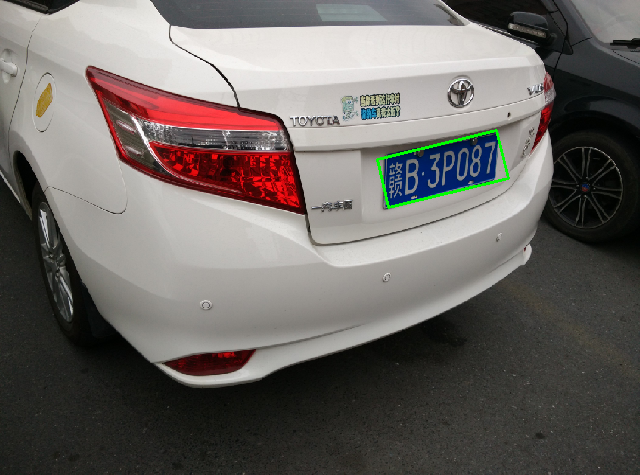
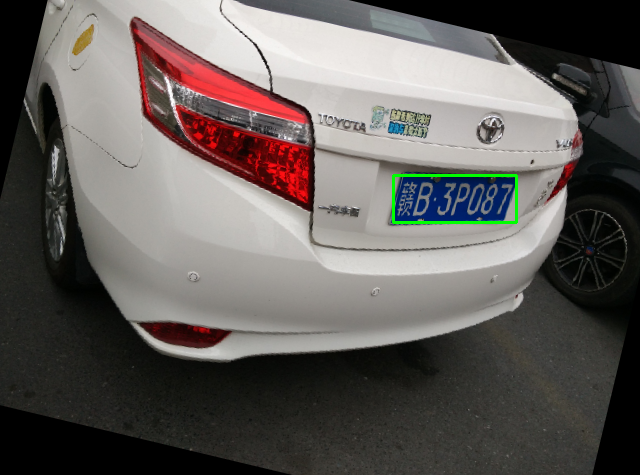
second update

diff --git a/TransLicense.py b/TransLicense.py
@@ -1,57 +1,82 @@
 import cv2
 import numpy as np
-from Projects.LicensePlate.processingImg import preprocess,BlueHsvImg
-#
-angle_flag = False
+from Projects.LicensePlate.processingImg import preprocess,BlueHsvImg,findPlateNumberRegion,detect
 
+imggg = cv2.imread("license4.png")
+# imggg = cv2.imread("timg.jpg")
+angle, angle_flag = detect(imggg)
 
-def find_angle(img, col, row):
-    left = col * 0.25
-    mid = col * 0.5
-    right = col * 0.75
-    a = b = 0
-    while img[a][int(left)] == 255:
-        a += 1
-    while img[b][int(right)] == 255:
-        b += 1
-    if a-b < 0:
-        angle_flag = True
+if angle < 0 and angle > -75:
+    row, col = imggg.shape[:2]
+    if angle_flag:
+        M = cv2.getRotationMatrix2D((col // 2, row // 2), angle, 1)
     else:
-        angle_flag = False
-    theta = np.arctan(abs(a-b)/(right - left))
-    print(theta)
-    angle = theta * 360 // np.pi
-    return int(angle)
+        M = cv2.getRotationMatrix2D((col // 2, row // 2), -angle, 1)
+
+    dst = cv2.warpAffine(imggg, M, (col, row))
+    angle, angle_flag = detect(dst)
+
+# def isRotated(binary):
+# #     往左上旋转为True
+#     row,col = binary.shape
+#
+#     return True
+
+# def find_angle(img, col, row):
+#     global angle_flag
+#     left = col * 0.25
+#     mid = col * 0.5
+#     right = col * 0.75
+#     a = b = 0
+#     while img[a][int(left)] == 255:
+#         a += 1
+#     while img[b][int(right)] == 255:
+#         b += 1
+#     if a-b < 0:
+#         angle_flag = True
+#     else:
+#         angle_flag = False
+#     theta = np.arctan(abs(a-b)/(right - left))
+#     print(theta)
+#     angle = theta * 360 // np.pi
+#     return int(angle)
 
 
-img = cv2.imread("number_plate1.jpg")
-testImg = img.copy()
-
-
-gray = cv2.cvtColor(testImg,cv2.COLOR_BGR2GRAY)
-ret, binary = cv2.threshold(gray,50,255,cv2.THRESH_BINARY)
-cv2.imshow('binary', binary)
-
-row,col = binary.shape
-
-angle = find_angle(binary, col, row)
-if angle_flag:
-    M = cv2.getRotationMatrix2D((col // 2, row // 2), angle / 2, 1)
-else:
-    M = cv2.getRotationMatrix2D((col // 2, row // 2), -angle / 2, 1)
-
-bigger = cv2.copyMakeBorder(img, row//4,row//4,col//4,col//4,cv2.BORDER_CONSTANT,value=(0,0,0))
-brow,bcol = bigger.shape[:2]
-
-dst = cv2.warpAffine(bigger, M, (bcol, brow))
+# imggg = cv2.imread("license4.png")
+# angle = detect(imggg)
+# img = cv2.imread("number_plate1.jpg")
+# testImg = img.copy()
+#
+#
+# gray = cv2.cvtColor(testImg,cv2.COLOR_BGR2GRAY)
+# ret, binary = cv2.threshold(gray,50,255,cv2.THRESH_BINARY)
+# cv2.imshow('binary', binary)
+#
+# row,col = binary.shape
+# angle_flag = isRotated(binary)
+#
+# if angle_flag:
+#     M = cv2.getRotationMatrix2D((col // 2, row // 2), angle, 1)
+# else:
+#     M = cv2.getRotationMatrix2D((col // 2, row // 2), -angle, 1)
+# #
+# bigger = cv2.copyMakeBorder(img, row//4,row//4,col//4,col//4,cv2.BORDER_CONSTANT,value=(0,0,0))
+# brow,bcol = bigger.shape[:2]
+# #
+# dst = cv2.warpAffine(bigger, M, (bcol, brow))
 # dst_gray = cv2.cvtColor(dst,cv2.COLOR_BGR2GRAY)
 # rett, binaryy = cv2.threshold(dst_gray, 50, 255, cv2.THRESH_BINARY)
-
-cv2.imshow('dst', dst)
-cv2.imshow('bigger', bigger)
-dst_gray = cv2.cvtColor(dst, cv2.COLOR_BGR2GRAY)
-di = preprocess(dst_gray)
-hsb = BlueHsvImg(dst)
-cv2.imshow('ddddd', di)
+#
+# cv2.imshow('dst', dst)
+# cv2.imshow('bigger', bigger)
+# dst_gray = cv2.cvtColor(dst, cv2.COLOR_BGR2GRAY)
+#
+# dilation = preprocess(dst_gray)
+# hsvBinary = BlueHsvImg(dst)
+#
+# cv2.imshow('ddddd', dilation)
+# getCombImg = cv2.bitwise_and(dilation, hsvBinary)
+# cv2.imshow('combbb', getCombImg)
+#
 
 cv2.waitKey(0)

diff --git a/TestPlate.py b/TestPlate.py
@@ -1,46 +1,53 @@
 import cv2
 import numpy as np
-#
-angle_flag = False
+from Projects.LicensePlate.processingImg import preprocess,BlueHsvImg,findPlateNumberRegion,detect
 
-def find_angle(img, col, row):
-    left = col * 0.25
-    mid = col * 0.5
-    right = col * 0.75
-    a = b = 0
-    while img[a][int(left)] == 255:
-        a += 1
-    while img[b][int(right)] == 255:
-        b += 1
-    if a-b < 0:
-        angle_flag = True
-    else:
-        angle_flag = False
-    theta = np.arctan(abs(a-b)/(right - left))
-    print(theta)
-    angle = theta * 360 // np.pi
-    return int(angle)
+
+# angle_flag = False
 #
-#
-img = cv2.imread("number_plate1.jpg")
+# def find_angle(img, col, row):
+#     left = col * 0.25
+#     mid = col * 0.5
+#     right = col * 0.75
+#     a = b = 0
+#     while img[a][int(left)] == 255:
+#         a += 1
+#     while img[b][int(right)] == 255:
+#         b += 1
+#     if a-b < 0:
+#         angle_flag = True
+#     else:
+#         angle_flag = False
+#     theta = np.arctan(abs(a-b)/(right - left))
+#     print(theta)
+#     angle = theta * 360 // np.pi
+#     return int(angle)
+# #
+# #
+img = cv2.imread("license4.png")
 testImg = img.copy()
 gray = cv2.cvtColor(testImg,cv2.COLOR_BGR2GRAY)
 ret, binary = cv2.threshold(gray,50,255,cv2.THRESH_BINARY)
-cv2.imshow('binary', binary)
-
+# cv2.imshow('binary', binary)
+#
 row,col = binary.shape
+#
+# angle = find_angle(binary, col, row)
+# if angle_flag:
+#     M = cv2.getRotationMatrix2D((col // 2, row // 2), angle / 2, 1)
+# else:
+#     M = cv2.getRotationMatrix2D((col // 2, row // 2), -angle / 2, 1)
+#
+# dst = cv2.warpAffine(img, M, (col, row))
+# dst_gray = cv2.cvtColor(dst,cv2.COLOR_BGR2GRAY)
+# rett, binaryy = cv2.threshold(dst_gray, 50, 255, cv2.THRESH_BINARY)
+# cv2.imshow('dst', dst)
+# cv2.imshow('img', binaryy)
 
-angle = find_angle(binary, col, row)
-if angle_flag:
-    M = cv2.getRotationMatrix2D((col // 2, row // 2), angle / 2, 1)
-else:
-    M = cv2.getRotationMatrix2D((col // 2, row // 2), -angle / 2, 1)
-
+M = cv2.getRotationMatrix2D((col // 2, row // 2), -13, 1)
 dst = cv2.warpAffine(img, M, (col, row))
-dst_gray = cv2.cvtColor(dst,cv2.COLOR_BGR2GRAY)
-rett, binaryy = cv2.threshold(dst_gray, 50, 255, cv2.THRESH_BINARY)
-cv2.imshow('dst', dst)
-cv2.imshow('img', binaryy)
+cv2.imshow('aaddddd', dst)
+ange = detect(dst)
 #
 # dst_gray = cv2.cvtColor(dst, cv2.COLOR_BGR2GRAY)
 # # ret, dst_binary = cv2.threshold(dst_gray,50,255,cv2.THRESH_BINARY)

diff --git a/processingImg.py b/processingImg.py
@@ -104,11 +104,11 @@ def findPlateNumberRegion(img):
         width = abs(box[0][0] - box[2][0])
         # 车牌正常情况下长高比在2.7-5之间
         ratio = float(width) / float(height)
-        print('ratio: ', ratio)
+        # print('ratio: ', ratio)
         if (ratio > 5.0 or ratio < 1.4):
             continue
         region.append(box)
-    print('region: ', region.__len__())
+    # print('region: ', region.__len__())
     return region
 
 
@@ -132,28 +132,39 @@ def detect(img):
     region = findPlateNumberRegion(getCombImg)
 
     # 用绿线画出这些找到的轮廓
+    print('this is region', region)
     for box in region:
         """
         you should convert your contour to numpy array first
         contours is a Python list of all the contours in the image. Each individual contour is a Numpy array of (x,y) coordinates of boundary points of the object.
         """
-        print(box)
+        # print('box', box)
         ctr = np.array(box).reshape((-1, 1, 2)).astype(np.int32)
-        print("asdas", [ctr])
+        # print("asdas", [ctr])
         cv2.drawContours(newImg, [ctr], 0, (0, 255, 0), 2)
+        rectt = cv2.minAreaRect(box)
+        angle = rectt[2]
+        # 矩形倾斜方向判断，往左上为True
+        flag = box[0][1] - box[3][1]
+        if flag >= 0:
+            angle_flag = True
+        else:
+            angle_flag = False
+        # cv2.boxPoints(rectt)
+        # print('----this is minrect: ', cv2.minAreaRect(box))
     cv2.imshow('testt', newImg)
     ys = [box[0, 1], box[1, 1], box[2, 1], box[3, 1]]
     xs = [box[0, 0], box[1, 0], box[2, 0], box[3, 0]]
     # argsort函数返回的是数组值从小到大的索引值
     ys_sorted_index = np.argsort(ys)
     xs_sorted_index = np.argsort(xs)
-
+    print('--------',xs_sorted_index, ys_sorted_index)
     x1 = box[xs_sorted_index[0], 0]
     x2 = box[xs_sorted_index[3], 0]
 
     y1 = box[ys_sorted_index[0], 1]
     y2 = box[ys_sorted_index[3], 1]
-
+    print('0----0: ', x1,x2,y1,y2)
     # img_org2 = img.copy()
     img_plate = img[int(y1):int(y2), int(x1):int(x2)]
     cv2.imshow('number plate', img_plate)
@@ -167,6 +178,7 @@ def detect(img):
 
     cv2.waitKey(0)
     cv2.destroyAllWindows()
+    return angle, angle_flag
 
 
 if __name__ == '__main__':
@@ -177,5 +189,4 @@ if __name__ == '__main__':
     # imgg = cv2.imread("cccc.jpeg")
     # imgg = cv2.imread("cuan.jpeg")
 
-
-    detect(imgg)
+    angle = detect(imgg)
